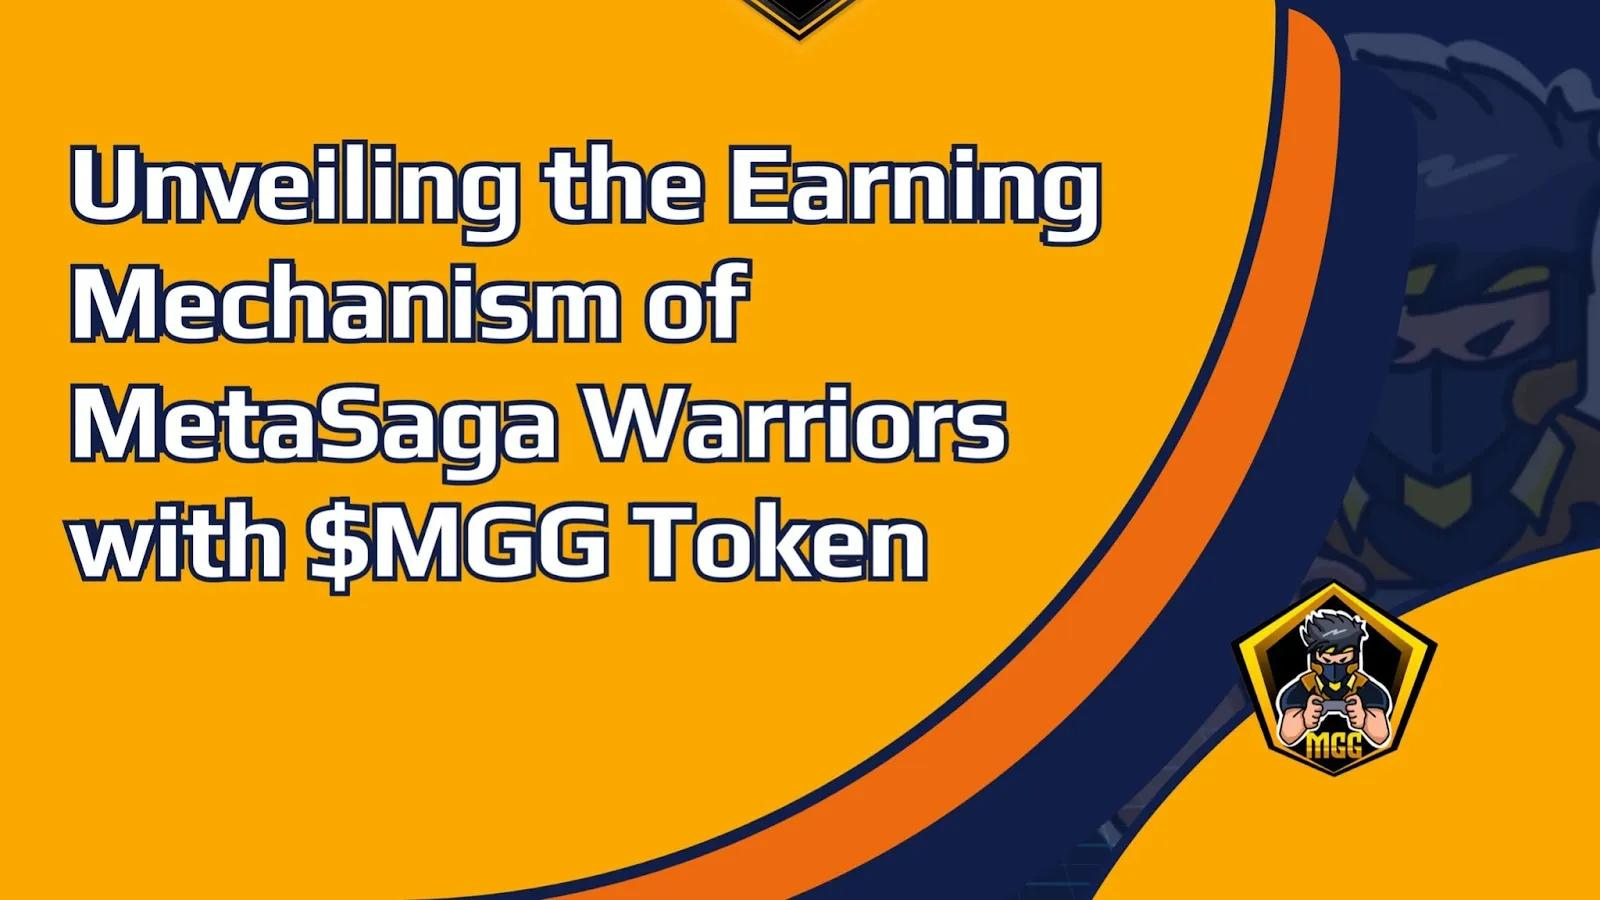
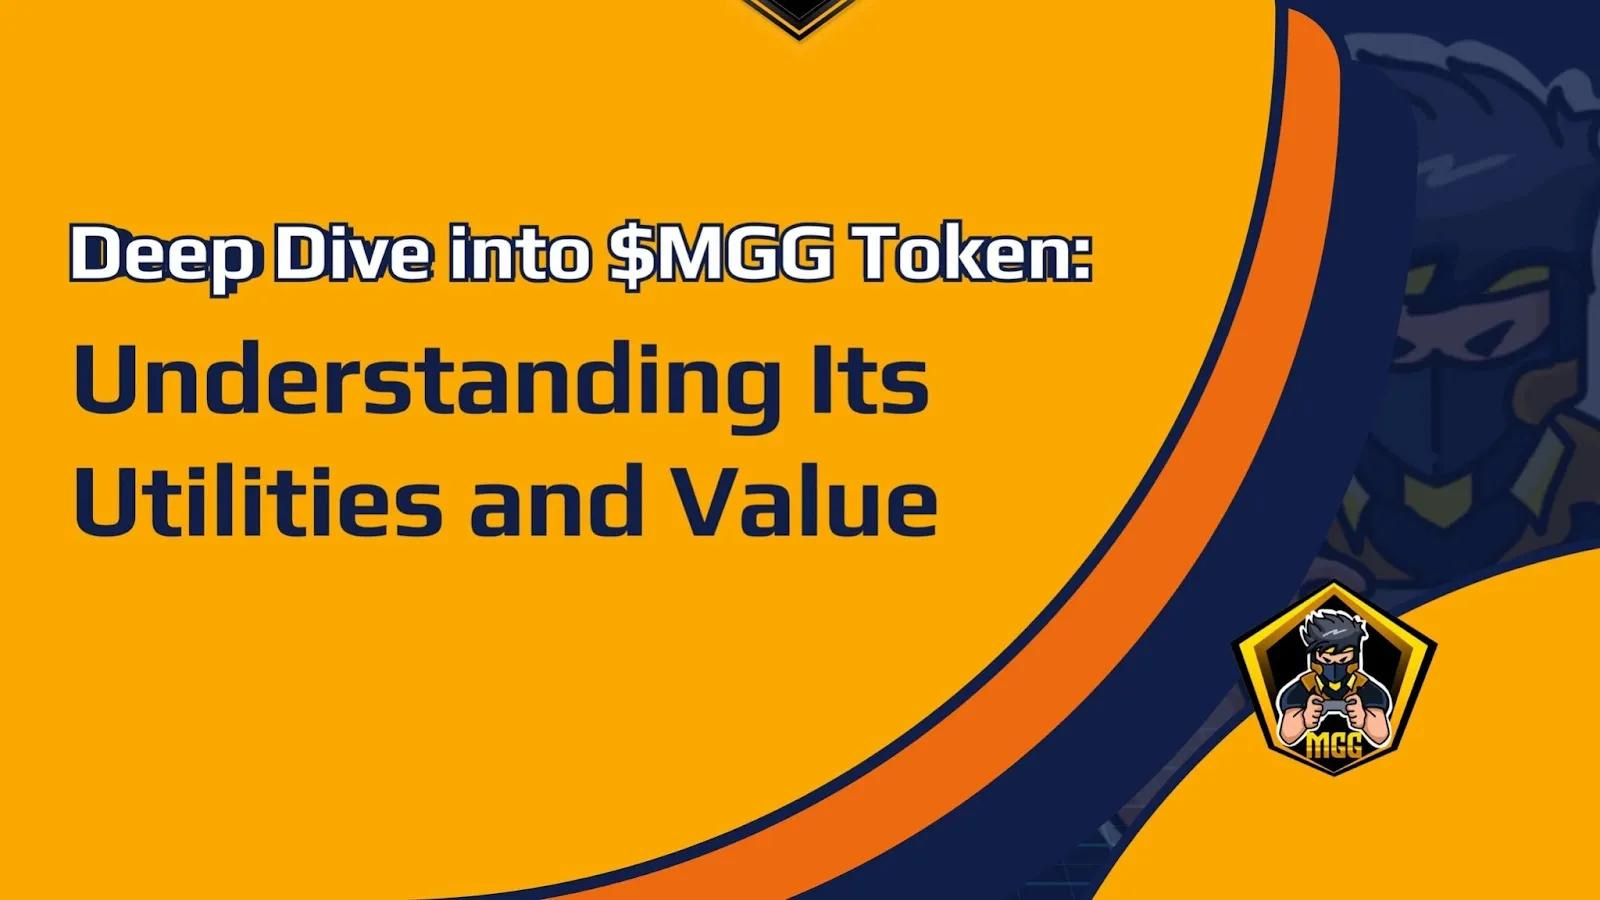
Update web contents

Changed region(s): [[0.0312, 0.1556, 0.6875, 0.6844], [0.8438, 0.8089, 0.875, 0.84], [0.8125, 0.7778, 0.8438, 0.8089]]

diff --git a/src/config/constants/homepageConfig.ts b/src/config/constants/homepageConfig.ts
@@ -84,21 +84,21 @@ export const App:IApp[] = [
 export const News:INews[] = [
   {
     image: 'News1',
-    description: `Metagaming Guild's Pixels Scholarship Welcomes 1,500 Scholars`,
+    description: `MGG Celebrates Year 3 in Web3`,
     name: "page1",
-    link: "https://medium.com/metagamingguild/metagaming-guilds-pixels-scholarship-welcomes-1-500-scholars-181bff1ad4b6",
+    link: "https://medium.com/@support_62719/mgg-celebrates-year-3-in-web3-a2cfb5257a3d",
   },
   {
     image: 'News2',
-    description: 'Unveiling The Earning Mechanism Of Meatasaga Warriors With $MGG Token',
+    description: 'Deep Dive into $MGG Token: Understanding Its Utilities and Value',
     name: "page2",
-    link: "https://medium.com/metagamingguild/unveiling-the-earning-mechanism-of-metasaga-warriors-with-mgg-token-426d8870dd78",
+    link: "https://medium.com/metagamingguild/deep-dive-into-mgg-token-understanding-its-utilities-and-value-95571164e817",
   },
   {
     image: 'News3',
-    description: 'Deep Dive Into $MGG Token: Understanding Its Utilities And Value',
+    description: 'MetaGaming Guild’s Pixels Scholarship Welcomes 1,500 Scholars',
     name: "page3",
-    link: "https://medium.com/metagamingguild/deep-dive-into-mgg-token-understanding-its-utilities-and-value-95571164e817",
+    link: "https://medium.com/metagamingguild/metagaming-guilds-pixels-scholarship-welcomes-1-500-scholars-181bff1ad4b6",
   },
   
 ]

diff --git a/src/config/constants/team.ts b/src/config/constants/team.ts
@@ -46,7 +46,7 @@ export const Teams:TeamsConfig = {
       title: 'Game Streamer/Content Creator'
     },
     {
-      name: 'Sheila Mae Perico',
+      name: 'Shiela Mae Perico',
       title: 'Guild Players Data Account Manager'
     },
     {
@@ -54,37 +54,34 @@ export const Teams:TeamsConfig = {
       title: 'Discord Community Manager'
     },
     {
-      name: 'Jess Pardiñas',
-      title: 'QA Specialist'
-    },
-    {
       name: 'Ador Cruz',
       title: 'Gamer Analyst and Guild Trainer'
     }
   ],
   'TECHNOLOGY & DEVELOPMENT': [
-    
-    {
-      name: 'Diana Gee Delas Alas',
-      title: 'Full Stack Developer'
-    },
-  
-    {
-      name: 'Ralph Balanta',
-      title: 'Front-end Developer'
-    },
-    {
-      name: 'Aldrick Bonaobra',
-      title: 'Senior Blockchain Developer'
-    },
-   
     {
       name: 'Mike Reñevo',
       title: 'Lead Game Developer'
     },
     {
+      name: 'Aldrick Bonaobra',
+      title: 'Senior Blockchain Developer'
+    },
+    {
       name: 'Salvador Amba Jr',
       title: 'Back-end Developer'
+    },
+    {
+      name: 'Jess Pardiñas',
+      title: 'QA Specialist'
+    },
+    {
+      name: 'Diana Gee Delas Alas',
+      title: 'Full Stack Developer'
+    },
+    {
+      name: 'Ralph Balanta',
+      title: 'Front-end Developer'
     },
     {
       name: 'Shanie Polagñe',

diff --git a/src/Pages/Partners/styled.tsx b/src/Pages/Partners/styled.tsx
@@ -1,7 +1,7 @@
 import styled from 'styled-components'
 import { Flex, Heading } from '@metagg/mgg-uikit'
-import GridGradient from '../../assets/background/gridwgradient.png'
-import GridGradientFlipped from '../../assets/background/gridwgradientFlipped.png'
+import GridGradient from '../../assets/background/bgpartner1@4x.png'
+import GridGradientFlipped from '../../assets/background/bgpartner1@4xinverted.png'
 
 export const Card = styled.div<{border?: string; fontSize?: string}>`
   background-color: #0c012c;
@@ -61,7 +61,7 @@ export const BgPage = styled.div`
   height: 100%;
   position: relative;
   background-color: ${({ theme }) => theme.addOnColors.background2};
-
+  /* background-image: url(${GridGradient}); */
   background-repeat: no-repeat;
   background-position: center top;
   background-size: contain;
@@ -73,7 +73,7 @@ export const BgPage = styled.div`
     width: 100%;
     height: 100%;
     z-index: 0;
- 
+    /* background-image: url(${GridGradientFlipped}) */
     background-repeat: no-repeat;
     background-position: center bottom;
     background-size: contain;

diff --git a/src/Pages/Team/icons/index.tsx b/src/Pages/Team/icons/index.tsx
@@ -13,7 +13,7 @@ export { default as JobelynEllaAHidalgoImg } from "./JobelynHidalgo";
 export { default as RussmanGiananImg } from "./RussmanGianan";
 export { default as KhenMendozaImg } from "./KhenMendoza";
 export { default as AizaBBorinagaImg } from './AizaBorinaga';
-export { default as SheilaMaePericoImg } from './SheilaMaePerico';
+export { default as ShielaMaePericoImg } from './ShielaMaePerico';
 export { default as MarcRapiImg } from './Marc';
 export { default as JessPardiñasImg } from './JessPardiñas';
 export { default as AdorCruzImg } from './AdorCruz';

diff --git a/src/Pages/Homepage/sections/Growth.tsx b/src/Pages/Homepage/sections/Growth.tsx
@@ -66,7 +66,7 @@ const Section: React.FC = () => {
   return (
     <GrowthContainer height='50'>
         <div style={{textAlign: 'center'}}>
-        <GlowTitle><PageTitle size="xl">MetaGaming Guild Growth Figures</PageTitle></GlowTitle>
+        <GlowTitle><PageTitle size="xl">METAGAMING GUILD GROWTH FIGURES</PageTitle></GlowTitle>
           <Text fontSize="1.2em" marginTop={4}>
             Since the project was launched in 2021, MetaGaming Guild has
             maintaned a 50% Month-on-Month growth

diff --git a/src/Pages/Roadmap/roadmap.tsx b/src/Pages/Roadmap/roadmap.tsx
@@ -28,7 +28,7 @@ const Roadmap = () => {
       <Page>
         <BgPage>
           <div style={{position: 'relative', zIndex: 2}}>
-            <HeadingGlow size='xxl' color='#fdda00' glow="#fdda00">ROADMAP</HeadingGlow>
+            <HeadingGlow size='xxl' color='#fdda00' glow="#fdda00" paddingTop={123}>ROADMAP</HeadingGlow>
             <NavOptionContainer
               alignItems="center"
               margin="2.5rem 0px 2rem 0px"

diff --git a/src/Pages/Homepage/sections/App.tsx b/src/Pages/Homepage/sections/App.tsx
@@ -65,7 +65,7 @@ const Section: React.FC = () => {
   return (
     <GrowthContainer height='50'>
         <div style={{textAlign: 'center'}}>
-        <GlowTitle><PageTitle size="xl">META GAMING APP FEATURES</PageTitle></GlowTitle>
+        <GlowTitle><PageTitle size="xl">METAGAMING GUILD APP FEATURES</PageTitle></GlowTitle>
         </div>
       <Container style={{padding: '0'}}>
         <FigureComponent />

diff --git a/src/Pages/Homepage/sections/Ecosystem.tsx b/src/Pages/Homepage/sections/Ecosystem.tsx
@@ -167,7 +167,7 @@ const Section: React.FC = () => {
                     </Text>
               </TextContainer>
           </DescriptionContainer>
-        <GlowTitle><PageTitle size="xl" >META GAMING GUILD ECOSYSTEMS</PageTitle></GlowTitle>
+        <GlowTitle><PageTitle size="xl" >METAGAMING GUILD ECOSYSTEMS</PageTitle></GlowTitle>
         <Cards />
       </Container>
     </EcoContainer>

diff --git a/src/Pages/Team/styled.ts b/src/Pages/Team/styled.ts
@@ -1,7 +1,7 @@
 import styled from 'styled-components'
 import { Heading, Flex } from '@metagg/mgg-uikit'
 import { breakpoints } from '../../theme/Breakpoints'
-import BackgroundImage from 'assets/background/BGwlogo.png'
+import BackgroundImage from 'assets/background/bgpartner1@4x.png'
 
 const Container = styled.div`
   display: flex;
